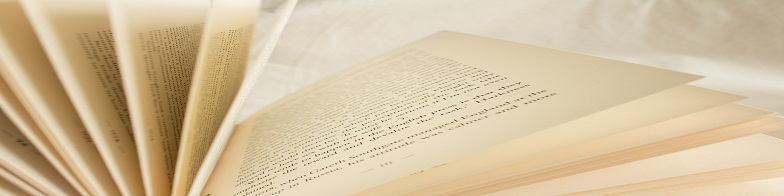
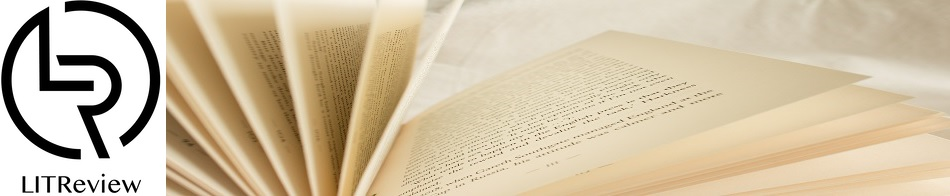
Homepage rework

diff --git a/reviews/templates/reviews/home.html b/reviews/templates/reviews/home.html
@@ -1,79 +1,107 @@
 {% extends 'base.html' %}
 {% block content %}
-    <div class="container">
-        <div class="row justify-content-center">
-            <div class="col-12 mt-3 mb-5">
-                <h2 class="text-center">Bienvenue sur LITReview</h2>
-            </div>
-        </div>
-        <h3 class="text-center mb-4">Actualités de votre flux</h3>
-        <div class="row">
-            {% for post in user_feed %}
-                <div class="col-4">
-                    <div class="card">
-                        {% if post.content_type == 'TICKET' %}
-                            <div class="card-header text-center">
-                                Ticket - {{ post.user }}
-                            </div>
-                            <div class="card-body">
-                                <div class="text-center">
-                                    {% if post.image %}
-                                        <img src="{{ post.image.url }}">
-                                    {% endif %}
-                                </div>
-                                <h5 class="card-title">{{ post.title }}</h5>
-                                <p class="card-text">{{ post.description }}</p>
-                                <div class="d-flex justify-content-evenly">
-                                    {% if post.review_set.all|length == 0 %}
-                                        <a href="{% url 'review_with_ticket_create' post.id %}" class="btn btn-primary">Créer une critique</a>
-                                    {% endif %}
-                                </div>
-                            </div>
-                        {% elif post.content_type == 'REVIEW' %}
-                            <div class="card-header text-center">
-                                Critique - {{ post.user }}
-                            </div>
-                            <div class="card-body">
-                                <h5 class="card-title">{{ post.ticket.title }}</h5>
-                                <p class="card-text">{{ post.headline }}</p>
-                                <p class="card-text">{{ post.body }}</p>
-                                <p class="card-text">{{ post.rating }}</p>
-                            </div>
-                        {% endif %}
-                    </div>
-                </div>
-            {% endfor %}
-        </div>
-        <h3 class="text-center mt-4 mb-4">Actualités générales</h3>
-        <div class="row">
-            {% for post in general_feed %}
-                <div class="col-4">
-                    <div class="card">
-                        {% if post.content_type == 'TICKET' %}
-                            <div class="card-header text-center">
-                                Ticket - {{ post.user }}
-                            </div>
-                            {% if post.image %}
-                                <img src="{{ post.image.url }}">
-                            {% endif %}
-                            <div class="card-body">
-                                <h5 class="card-title">{{ post.title }}</h5>
-                                <p class="card-text">{{ post.description }}</p>
-                            </div>
-                        {% elif post.content_type == 'REVIEW' %}
-                            <div class="card-header text-center">
-                                Critique - {{ post.user }}
-                            </div>
-                            <div class="card-body">
-                                <h5 class="card-title">{{ post.ticket.title }}</h5>
-                                <p class="card-text">{{ post.headline }}</p>
-                                <p class="card-text">{{ post.body }}</p>
-                                <p class="card-text">{{ post.rating }}</p>
-                            </div>
-                        {% endif %}
-                    </div>
-                </div>
-            {% endfor %}
+
+<div class="container">
+    <div class="row justify-content-center">
+        <div class="col-12 mt-3 mb-3">
+            <h2 class="text-center text-primary">Bienvenue sur LITReview</h2>
         </div>
     </div>
+    <h3 class="text-center  text-primary my-4">Actualités générales</h3>
+    <div class="row">
+        {% for post in general_feed %}
+            <div class="col-12 col-lg-6 col-xl-4">
+                <div class="card style="heigth: 400px">
+                    {% if post.content_type == 'TICKET' %}
+                        <div class="card-header text-center">
+                            Ticket - {{ post.user }}
+                        </div>
+                        <div class="card-body">
+                            <div class="text-center">
+                                {% if post.image %}
+                                    <img src="{{ post.image.url }}">
+                                {% endif %}
+                            </div>
+                            <h5 class="card-title mt-4">{{ post.title }}</h5>
+                            <p class="card-text">{{ post.description }}</p>
+                        </div>
+                    {% elif post.content_type == 'REVIEW' %}
+                        <div class="card-header text-center">
+                            Critique - {{ post.user }}
+                        </div>
+                        <div class="card-body">
+                            <h5 class="card-title">{{ post.ticket.title }}</h5>
+                            <p class="card-text">{{ post.headline }}</p>
+                            <p class="ratings">
+                                <script>
+                                    var fullStarNumber = {{ post.rating }};
+                                    for (var i = 1; i <= fullStarNumber; i++) {
+                                        document.write('<i class="bi bi-star-fill"></i>');
+                                    }
+                                    var emptyStarNumber = 5 - fullStarNumber
+                                    for (var i = 1; i <= emptyStarNumber; i++) {
+                                        document.write('<i class="bi bi-star"></i>');
+                                    }
+                                </script>
+                            </p>
+                            <p class="card-text">{{ post.body }}</p>
+                        </div>
+                    {% endif %}
+                </div>
+            </div>
+        {% endfor %}
+    </div>
+    <h3 class="text-center text-primary my-4">Actualités de votre flux</h3>
+    <div class="row">
+        {% for post in user_feed %}
+            <div class="col-12 col-lg-6 col-xl-4">
+                <div class="card">
+                    {% if post.content_type == 'TICKET' %}
+                        <div class="card-header text-center">
+                            Ticket - {{ post.user }}
+                        </div>
+                        <div class="card-body">
+                            <div class="text-center">
+                                {% if post.image %}
+                                    <img src="{{ post.image.url }}">
+                                {% endif %}
+                            </div>
+                            <h5 class="card-title mt-4">{{ post.title }}</h5>
+                            <p class="card-text">{{ post.description }}</p>
+                            <!--
+                            <div class="d-flex justify-content-evenly">
+                                {% if post.review_set.all|length == 0 %}
+                                    <a href="{% url 'review_with_ticket_create' post.id %}" class="btn btn-primary">Créer une critique</a>
+                                {% endif %}
+                            </div>
+                            -->
+                        </div>
+                    {% elif post.content_type == 'REVIEW' %}
+                        <div class="card-header text-center">
+                            Critique - {{ post.user }}
+                        </div>
+                        <div class="card-body">
+                            <h5 class="card-title">{{ post.ticket.title }}</h5>
+                            <p class="card-text">{{ post.headline }}</p>
+                            <p class="ratings">
+                                <script>
+                                    var fullStarNumber = {{ post.rating }};
+                                    for (var i = 1; i <= fullStarNumber; i++) {
+                                        document.write('<i class="bi bi-star-fill"></i>');
+                                    }
+                                    var emptyStarNumber = 5 - fullStarNumber
+                                    for (var i = 1; i <= emptyStarNumber; i++) {
+                                        document.write('<i class="bi bi-star"></i>');
+                                    }
+                                </script>
+                            </p>
+                            <p class="card-text">{{ post.body }}</p>
+                        </div>
+                    {% endif %}
+                </div>
+            </div>
+        {% endfor %}
+    </div>
+</div>
+
 {% endblock content %}

diff --git a/reviews/templates/reviews/feed.html b/reviews/templates/reviews/feed.html
@@ -76,18 +76,17 @@
                             </div>
                             <div class="card-body">
                                 <p class="card-text">{{ post.headline }}</p>
-                                    <span class="ratings">
-                                        <script>
-                                            var fullStarNumber = {{ post.rating }};
-                                            for (var i = 1; i <= fullStarNumber; i++) {
-                                                document.write('<i class="bi bi-star-fill"></i>');
-                                            }
-                                            var emptyStarNumber = 5 - fullStarNumber
-                                            for (var i = 1; i <= emptyStarNumber; i++) {
-                                                document.write('<i class="bi bi-star"></i>');
-                                            }
-                                        </script>
-                                    </span>
+                                <p class="ratings">
+                                    <script>
+                                        var fullStarNumber = {{ post.rating }};
+                                        for (var i = 1; i <= fullStarNumber; i++) {
+                                            document.write('<i class="bi bi-star-fill"></i>');
+                                        }
+                                        var emptyStarNumber = 5 - fullStarNumber
+                                        for (var i = 1; i <= emptyStarNumber; i++) {
+                                            document.write('<i class="bi bi-star"></i>');
+                                        }
+                                    </script>
                                 </p>
                                 <p class="card-text">{{ post.body }}</p>
                                 <div class="card">

diff --git a/authentication/templates/authentication/login.html b/authentication/templates/authentication/login.html
@@ -10,12 +10,9 @@
 <body>
     <header>
         <div class="container">
-            <div class="row justify-content-between">
-                <div class="col-2">
-                    <img src="{% static 'images/logo.png' %}" class="img-fluid" alt="logo">
-                </div>
-                <div class="col-10">
-                    <img src="{% static 'images/banner_login.jpg' %}"  class="img-fluid" alt="bannière représentant un livre ouvert">
+            <div class="row">
+                <div class="col-12 text-center">
+                    <img src="{% static 'images/banner_login.jpg' %}"  class="img-fluid" alt="bannière représentant un livre ouvert et le logo">
                 </div>
             </div>
         </div>
@@ -23,12 +20,12 @@
     <main>
         <div class="container mt-5">
             <div class="row align-items-center justify-content-evenly">
-                <div class="col-3 align-content-center">
+                <div class="col-12 col-md-4 align-content-center">
                     <p class="fw-bold">Vous n'avez pas de compte?</p>
                     <p>Inscrivez-vous maintenant</p>
                     <a href="{% url 'signup' %}"><button type="button" class="btn btn-primary">S'inscrire</button></a>
                 </div>
-                <div class="col-4">
+                <div class="col-12 col-md-4 mt-5">
                     <p>{{ message }}</p>
                     <h2>Connectez-vous</h2>
                     <form method="post">

diff --git a/reviews/models.py b/reviews/models.py
@@ -12,7 +12,7 @@ class Ticket(models.Model):
                              on_delete=models.CASCADE)
     image = models.ImageField(null=True, blank=True)
     time_created = models.DateTimeField(auto_now_add=True)
-    IMAGE_MAX_SIZE = (400, 400)
+    IMAGE_MAX_SIZE = (250, 300)
 
     def resize_image(self):
         image = Image.open(self.image)
